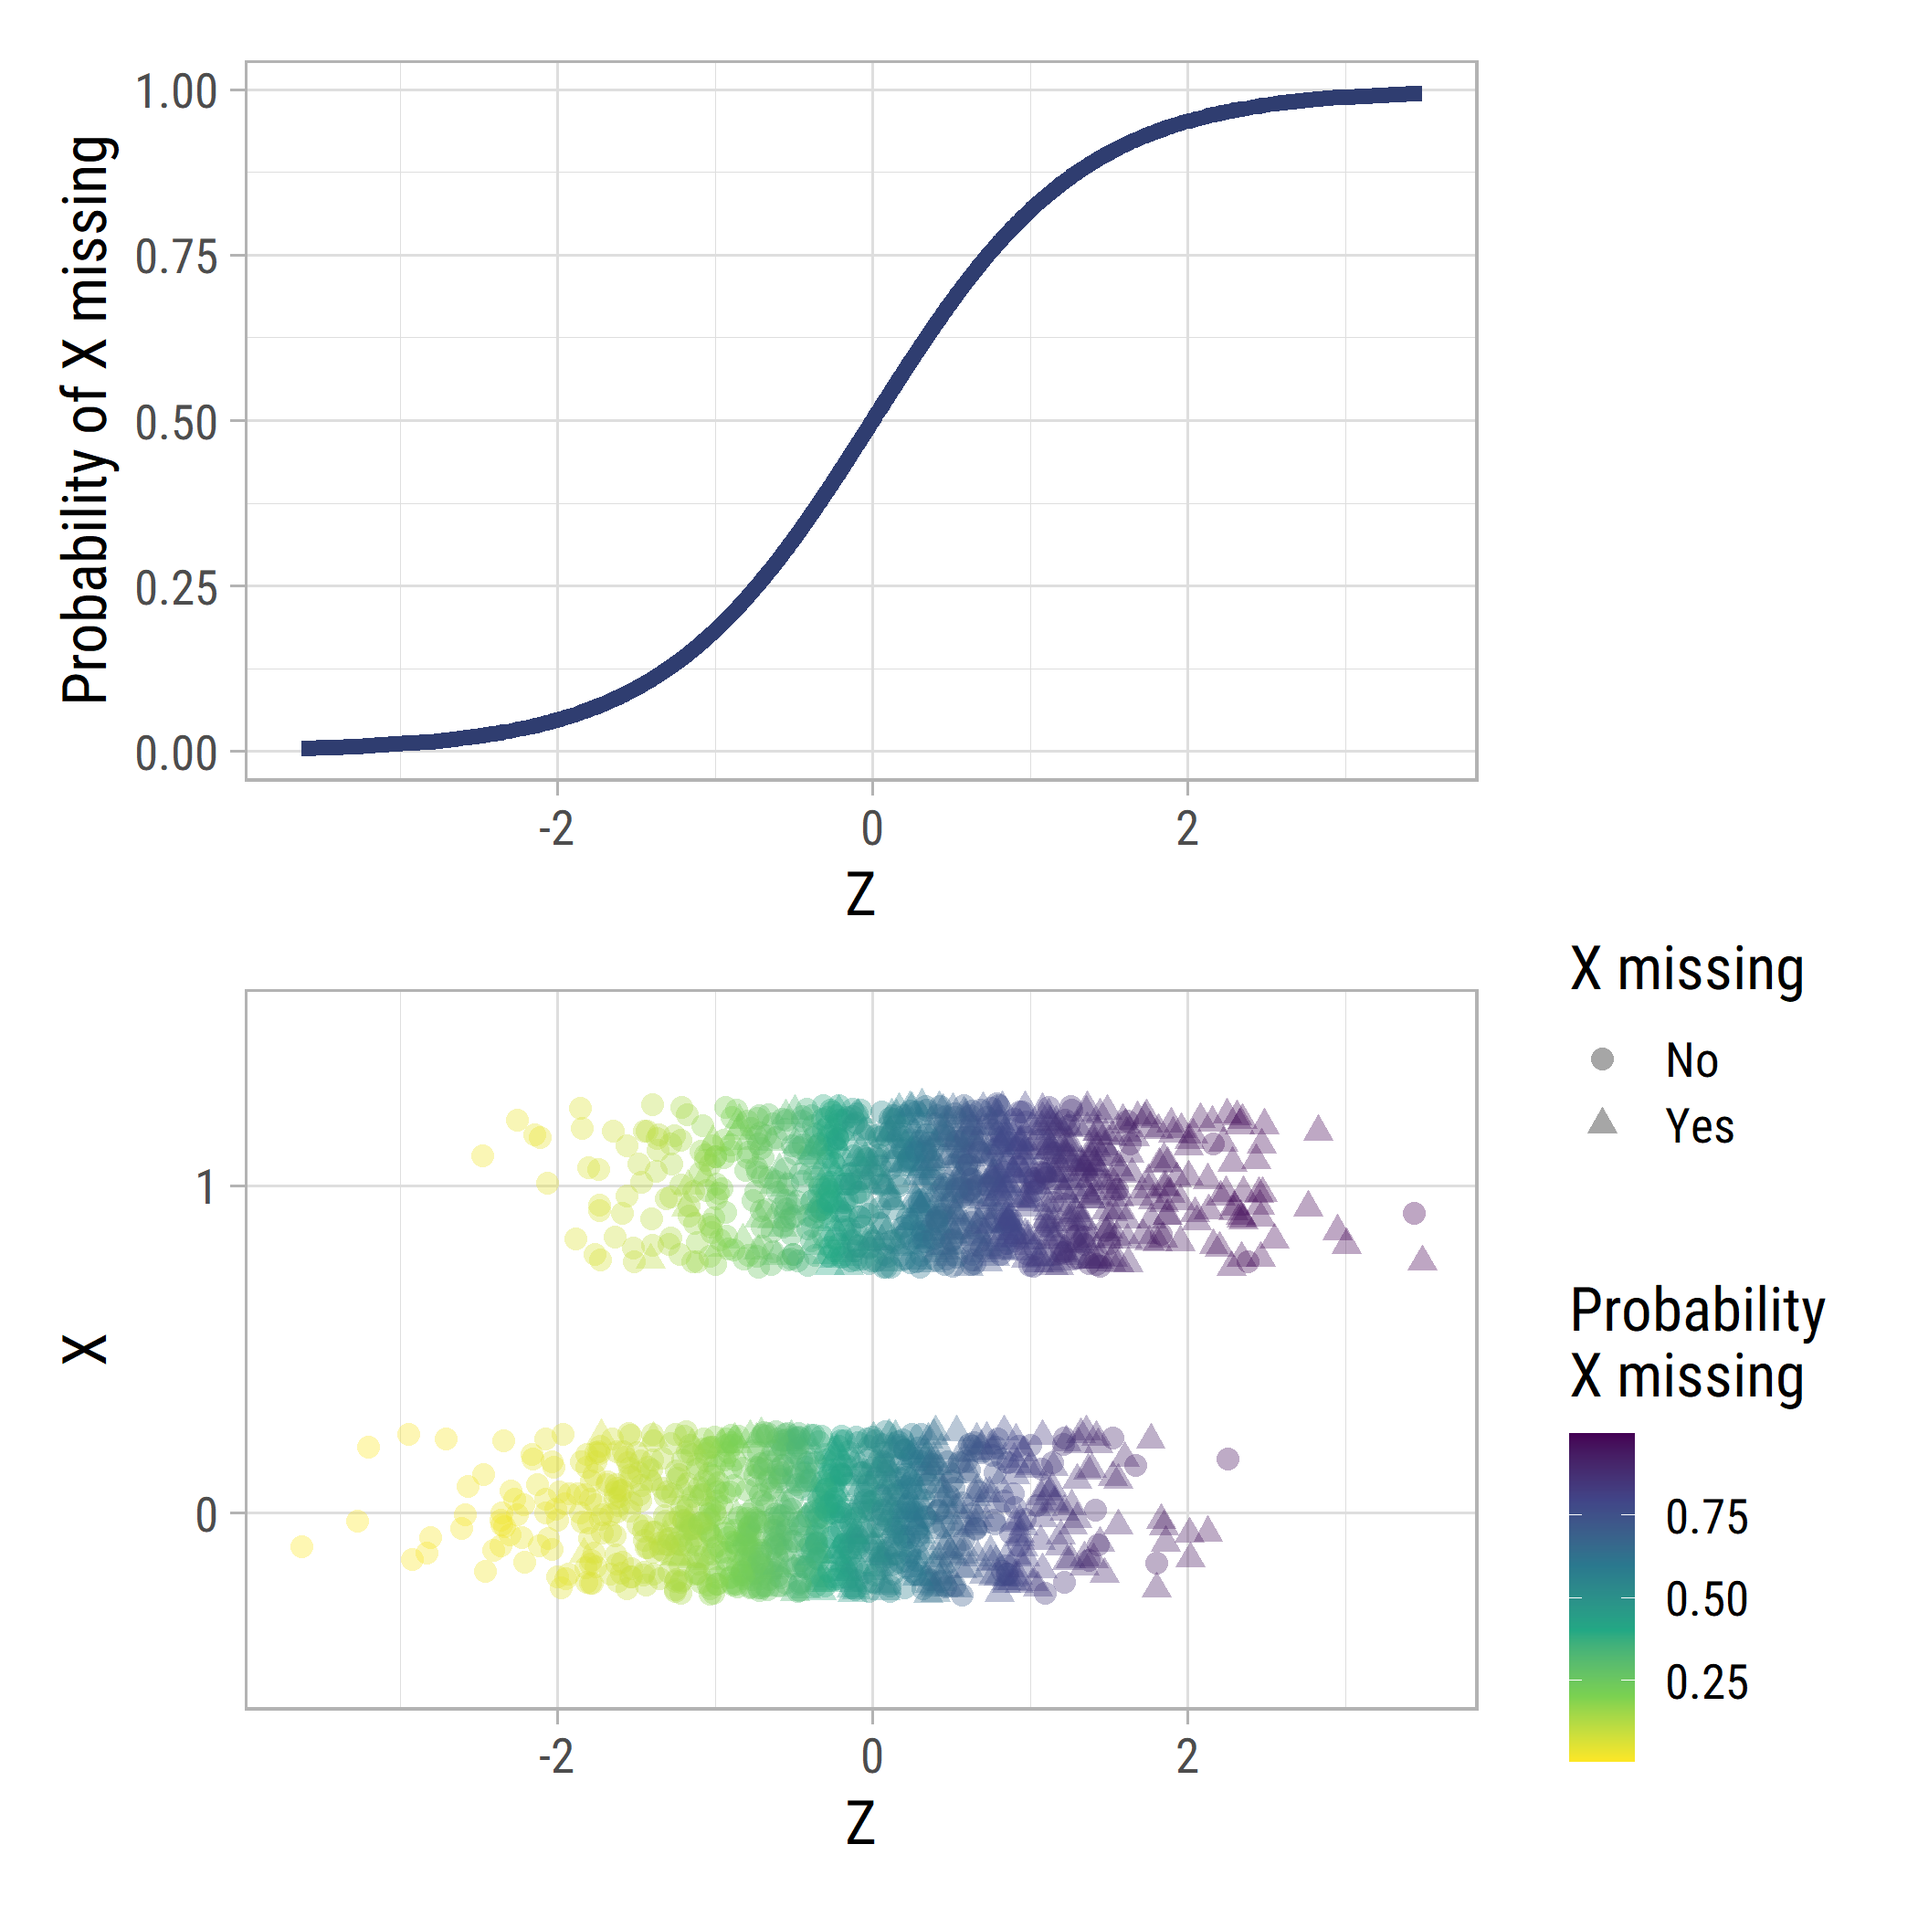
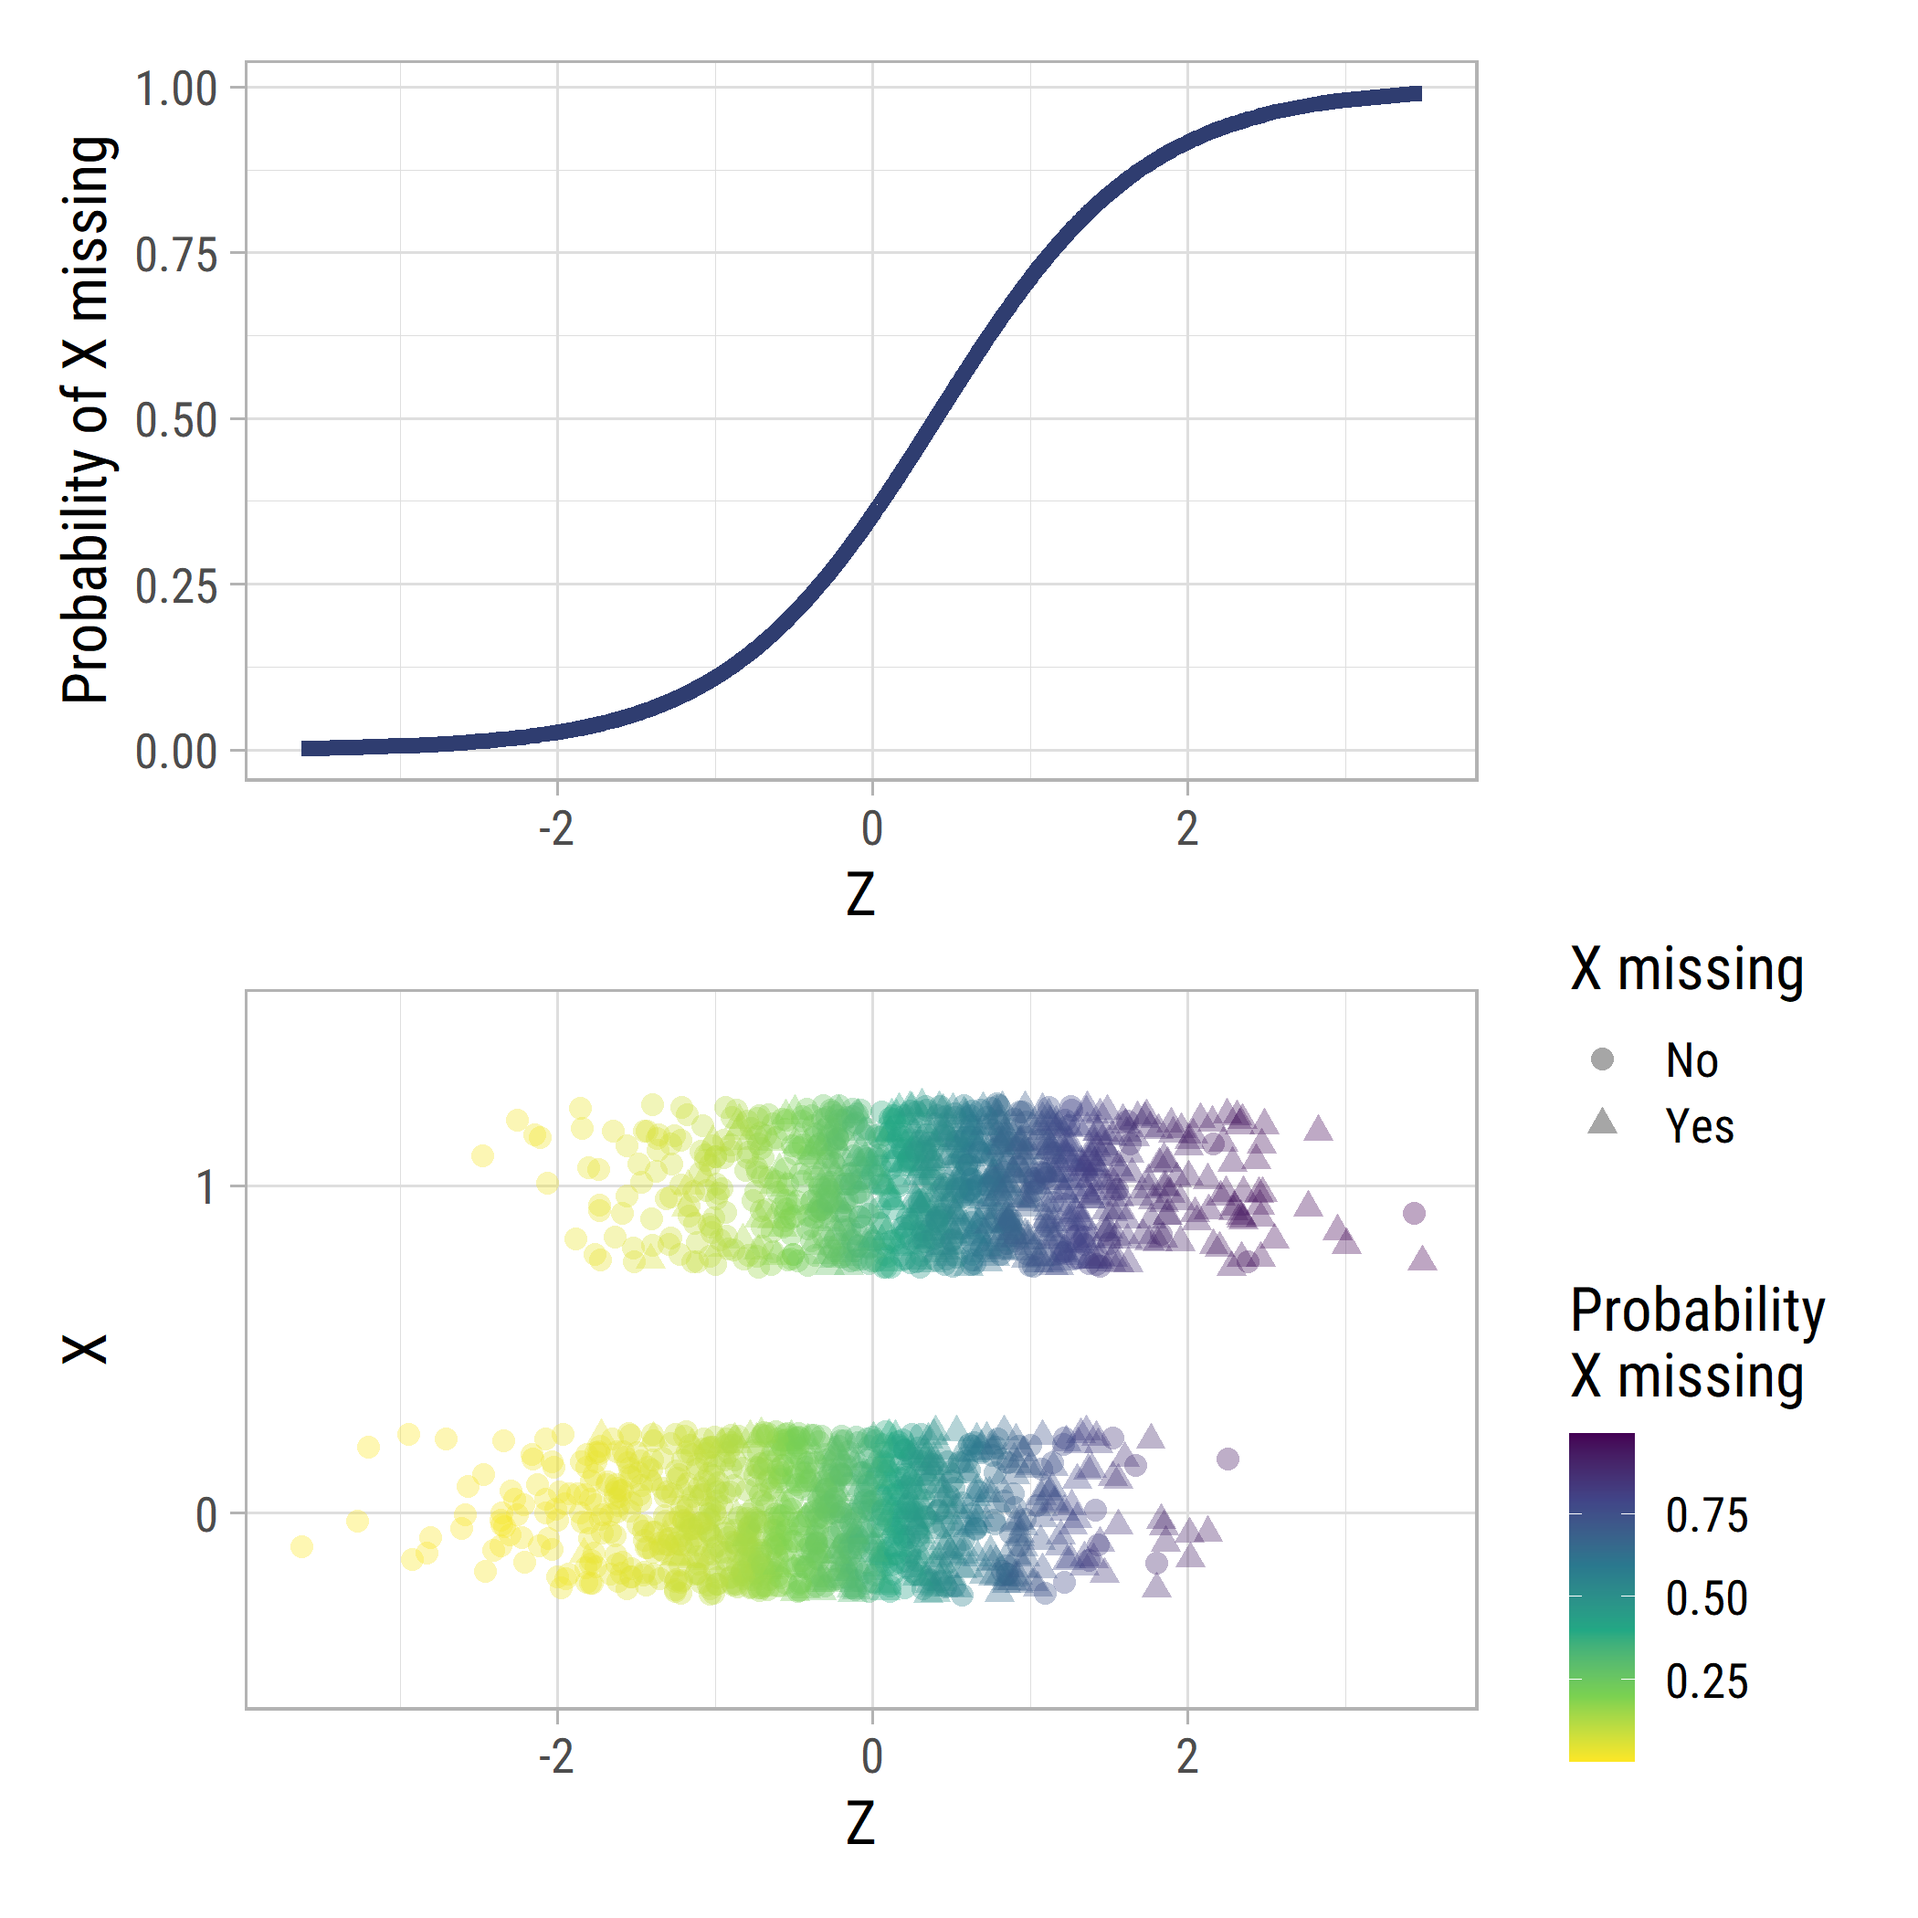
Edit MAR-T sims

diff --git a/analysis/simulation-results.md b/analysis/simulation-results.md
@@ -71,7 +71,13 @@
 
 ### Covariates and missing data mechanism
 
-<img src="figures/miss-mech-plot-1.png" style="width:100.0%" />
+- MAR conditional on Z (detail here again)
+
+<img src="figures/miss-mech-plot-1.png" style="width:70.0%" />
+
+- MAR conditional on observed competing event time
+
+<img src="figures/miss-mech-plot_mart-1.png" style="width:70.0%" />
 
 ### Censoring plots
 
